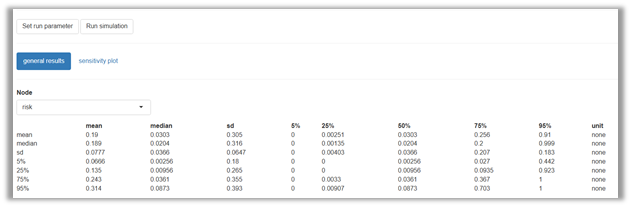
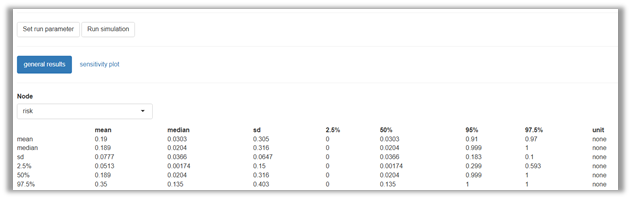
again

diff --git a/_site/index.html b/_site/index.html
@@ -1035,15 +1035,15 @@ Figure&nbsp;15: Schematic representation of the bootstrap method (Greiner, 2022,
 <p>A further limitation of non-parametric bootstrap is that distributions take a discrete shape for very small size of the original data sample. Sampling with replacement of <span class="math inline">\(n\)</span> observations can result in exactly <span class="math inline">\(2n-1\choose n-1\)</span> possible permutations of sampling <span class="math inline">\(n\)</span> out of <span class="math inline">\(n\)</span>. The table below shows that more than 5 observations are needed to obtain only 126 permutations can occur. If the original data set contains outlier values, the discreteness can present a further limitation.</p>
 <table class="caption-top table">
 <colgroup>
-<col style="width: 16%">
-<col style="width: 10%">
-<col style="width: 10%">
-<col style="width: 10%">
-<col style="width: 10%">
-<col style="width: 10%">
-<col style="width: 10%">
-<col style="width: 10%">
-<col style="width: 10%">
+<col style="width: 11%">
+<col style="width: 11%">
+<col style="width: 11%">
+<col style="width: 11%">
+<col style="width: 11%">
+<col style="width: 11%">
+<col style="width: 11%">
+<col style="width: 11%">
+<col style="width: 11%">
 </colgroup>
 <tbody>
 <tr class="odd">
@@ -1144,6 +1144,34 @@ Figure&nbsp;16: Uploading a distribution fitting file into the shiny rrisk sessi
 </section>
 <section id="sec-fixedpar" class="level2">
 <h2 class="anchored" data-anchor-id="sec-fixedpar">Fixed parameters and functions</h2>
+<p>Shiny rrisk allows users to develop their owns functions and parameters to be used in several nodes in the model. These features are considered advanced and requires some understanding of shiny mathematical architecture [@Robert – needs some input] as well as knowledge in R programming.</p>
+<p>A function is a predefined set of commands and mathematical calculations where a variable can be plugged into to generate the results. A common function in exposure models is for instance the use of microbial growth models where the variable temperature can be used for different conditions.</p>
+<div class="callout callout-style-default callout-note callout-titled">
+<div class="callout-header d-flex align-content-center" data-bs-toggle="collapse" data-bs-target=".callout-25-contents" aria-controls="callout-25" aria-expanded="false" aria-label="Toggle callout">
+<div class="callout-icon-container">
+<i class="callout-icon"></i>
+</div>
+<div class="callout-title-container flex-fill">
+Example: Function from Yersinia enterocolitica model
+</div>
+<div class="callout-btn-toggle d-inline-block border-0 py-1 ps-1 pe-0 float-end"><i class="callout-toggle"></i></div>
+</div>
+<div id="callout-25" class="callout-25-contents callout-collapse collapse">
+<div class="callout-body-container callout-body">
+<p>The function below is taken from the case model *Yersinia enterocolitica* in minced meat in shiny. The function below will allow bacteria to grow pending on different temperatures (C)</p>
+<p>Under Fixed Parameters and Functions in shiny rrisk, the user should select <strong>Add new parameter or function,</strong> and enter the text below in the window under Description.</p>
+<p>function(Temp)</p>
+<p>{</p>
+<p>&nbsp;&nbsp;&nbsp; a &lt;- 0.0242&nbsp; # 1/h; growth rate at Temp = 0°C</p>
+<p>&nbsp;&nbsp;&nbsp; Tref &lt;- 7.092&nbsp; # °C; if Temp = Tref, then growth_rate = a * exp(1)</p>
+<p>&nbsp;&nbsp;&nbsp; a * exp(Temp/Tref)</p>
+<p>}</p>
+<p>The function should start with the word “function”. Then the word in brackets after the word function represents variable to be used in the equations. This word will be used in different parts in the equations between the curling brackets. The function just needs a word there that will be replaced by the user defined variable in the model.</p>
+<p>The node below describes the use of the function in the Yersinia model</p>
+<p><img src="images/function.png" class="img-fluid" style="border: 2px solid black;  box-shadow: 4px 4px 12px rgba(0, 0, 0, 0.6);" width="500"></p>
+</div>
+</div>
+</div>
 </section>
 </section>
 <section id="running-a-simulation" class="level1">
@@ -1262,7 +1290,7 @@ Memory
 </div>
 </div>
 <div class="callout callout-style-default callout-tip callout-titled">
-<div class="callout-header d-flex align-content-center" data-bs-toggle="collapse" data-bs-target=".callout-27-contents" aria-controls="callout-27" aria-expanded="false" aria-label="Toggle callout">
+<div class="callout-header d-flex align-content-center" data-bs-toggle="collapse" data-bs-target=".callout-28-contents" aria-controls="callout-28" aria-expanded="false" aria-label="Toggle callout">
 <div class="callout-icon-container">
 <i class="callout-icon"></i>
 </div>
@@ -1271,7 +1299,7 @@ Good practice - Number of replicates
 </div>
 <div class="callout-btn-toggle d-inline-block border-0 py-1 ps-1 pe-0 float-end"><i class="callout-toggle"></i></div>
 </div>
-<div id="callout-27" class="callout-27-contents callout-collapse collapse">
+<div id="callout-28" class="callout-28-contents callout-collapse collapse">
 <div class="callout-body-container callout-body">
 <p>Since the number of nodes is part of the structure of the model, the amount of memory used will mainly depend of the number of random samples. Usually, the number of samples is selected based on standard “magic” numbers, like 100, 1000, 10000, etc. However, there are some approaches that can be followed as a guidance to estimate an approximate number. For this you need the probability of the event being modelled as outcome (which is typically low in risk and exposure assessments) and the minimum number of events you wish to model to obtain a statistically meaningful result.</p>
 <p>Let <span class="math inline">\(p\)</span> denote the (low) true risk and <span class="math inline">\(n\)</span> the minimum expected number of occurrences of the event you wish to model. You can approximate the required number of replicates <span class="math inline">\(N\)</span> using</p>
@@ -1282,7 +1310,7 @@ Good practice - Number of replicates
 </div>
 </div>
 <div class="callout callout-style-default callout-caution callout-titled">
-<div class="callout-header d-flex align-content-center" data-bs-toggle="collapse" data-bs-target=".callout-28-contents" aria-controls="callout-28" aria-expanded="false" aria-label="Toggle callout">
+<div class="callout-header d-flex align-content-center" data-bs-toggle="collapse" data-bs-target=".callout-29-contents" aria-controls="callout-29" aria-expanded="false" aria-label="Toggle callout">
 <div class="callout-icon-container">
 <i class="callout-icon"></i>
 </div>
@@ -1291,7 +1319,7 @@ Read more - Monte Carlo (MC) vs.&nbsp;latin hypercube (LH) sampling
 </div>
 <div class="callout-btn-toggle d-inline-block border-0 py-1 ps-1 pe-0 float-end"><i class="callout-toggle"></i></div>
 </div>
-<div id="callout-28" class="callout-28-contents callout-collapse collapse">
+<div id="callout-29" class="callout-29-contents callout-collapse collapse">
 <div class="callout-body-container callout-body">
 <p>Two sampling methods can be used in shiny rrisk. The Latin Hypercube (LH) method is more efficient and will provide same accuracy as the Monte Carlo (MC) method with fewer samples. In addition the LH will assure that samples are taken from the whole distribution, which is also better for rare events. The LH might reduce the number of samples required by a factor of 10 compared with the MC method. The LH is the default method in shiny rrisk.</p>
 <p>The LH method divides each random variable’s range into equal probability intervals (strata) according the number of samples required in the simulation and then take one sample from each interval per variable. Then the full coverage of each variable is sampled.</p>
@@ -1390,7 +1418,7 @@ Figure&nbsp;20: Numerical results for a one-dimensional (1D) simulation (<em>Yer
 <p><span class="citation" data-cites="Robert">@Robert</span> - how to interpret this one?</p>
 <p><img src="images/conv_ecoli_2D.png" class="img-fluid" style="border: 2px solid black;  box-shadow: 4px 4px 12px rgba(0, 0, 0, 0.6);" width="500"></p>
 <div class="callout callout-style-default callout-caution callout-titled">
-<div class="callout-header d-flex align-content-center" data-bs-toggle="collapse" data-bs-target=".callout-29-contents" aria-controls="callout-29" aria-expanded="false" aria-label="Toggle callout">
+<div class="callout-header d-flex align-content-center" data-bs-toggle="collapse" data-bs-target=".callout-30-contents" aria-controls="callout-30" aria-expanded="false" aria-label="Toggle callout">
 <div class="callout-icon-container">
 <i class="callout-icon"></i>
 </div>
@@ -1399,7 +1427,7 @@ Read more - 2D MC Models
 </div>
 <div class="callout-btn-toggle d-inline-block border-0 py-1 ps-1 pe-0 float-end"><i class="callout-toggle"></i></div>
 </div>
-<div id="callout-29" class="callout-29-contents callout-collapse collapse">
+<div id="callout-30" class="callout-30-contents callout-collapse collapse">
 <div class="callout-body-container callout-body">
 <p>The following figure depicts the outcome of a probabilistic model that reflects both variability and uncertainty (2D MC). <img src="images/clipboard-4283040366.png" class="img-fluid"></p>
 <p>The central tendency (median) of the risk estimate can be read from the intersection of the dark blue line with the red line parallel to the x-axis at a probability value in the y-axis of 0.5. The value is around 1e-11.</p>
@@ -1417,7 +1445,7 @@ Read more - 2D MC Models
 <p>Since this is a 2D model, the tornado plot also present the 95%. probability interval due to the uncertainty of the risk outcome.</p>
 <p><img src="images/tornado_pearson_ecoli.png" class="img-fluid" style="border: 2px solid black;  box-shadow: 4px 4px 12px rgba(0, 0, 0, 0.6);" width="500"></p>
 <div class="callout callout-style-default callout-caution callout-titled">
-<div class="callout-header d-flex align-content-center" data-bs-toggle="collapse" data-bs-target=".callout-30-contents" aria-controls="callout-30" aria-expanded="false" aria-label="Toggle callout">
+<div class="callout-header d-flex align-content-center" data-bs-toggle="collapse" data-bs-target=".callout-31-contents" aria-controls="callout-31" aria-expanded="false" aria-label="Toggle callout">
 <div class="callout-icon-container">
 <i class="callout-icon"></i>
 </div>
@@ -1426,7 +1454,7 @@ Read more: Tornado plots
 </div>
 <div class="callout-btn-toggle d-inline-block border-0 py-1 ps-1 pe-0 float-end"><i class="callout-toggle"></i></div>
 </div>
-<div id="callout-30" class="callout-30-contents callout-collapse collapse">
+<div id="callout-31" class="callout-31-contents callout-collapse collapse">
 <div class="callout-body-container callout-body">
 <p>Tornado plots are commonly used in risk and exposure assessments models to assess the quantify the impact of input variables on the outcome of the model. This relationship is quantified using parametric (eg. Pearson correlation coefficient) or non-parametric (eg. Spearman rank correlation coefficient - rho -) statistics.</p>
 <p>The graphs is created using all the input variables on the y-axis and the statistic on the x-axis, then the relationship is depicted using horizontal bars where the length of the bar represents the value of the statistic. This value is constraint by the boundaries of the statistic (eg. between -1 and 1). Where values below 0 represent an inverse relationship and values greater than 0, otherwise. For instance negative values suggest that higher values of the input are associates with lower values of the outcome variable.</p>
@@ -1492,7 +1520,7 @@ Figure&nbsp;21: Documentation of author names and a free text model description 
 </table>
 <p>There is no commonly accepted standard structure to provide additional information about the model. Below you will find a few good practice recommendations that you can combine in the free text field to meet your specific reporting needs. A simple markdown syntax can be used to structure the description into sections and subsections. Moreover, the markdown syntax can be used to obtain some standard text formatting.</p>
 <div class="callout callout-style-default callout-tip callout-titled">
-<div class="callout-header d-flex align-content-center" data-bs-toggle="collapse" data-bs-target=".callout-32-contents" aria-controls="callout-32" aria-expanded="false" aria-label="Toggle callout">
+<div class="callout-header d-flex align-content-center" data-bs-toggle="collapse" data-bs-target=".callout-33-contents" aria-controls="callout-33" aria-expanded="false" aria-label="Toggle callout">
 <div class="callout-icon-container">
 <i class="callout-icon"></i>
 </div>
@@ -1501,7 +1529,7 @@ Good practice: Generic structure of a
 </div>
 <div class="callout-btn-toggle d-inline-block border-0 py-1 ps-1 pe-0 float-end"><i class="callout-toggle"></i></div>
 </div>
-<div id="callout-32" class="callout-32-contents callout-collapse collapse">
+<div id="callout-33" class="callout-33-contents callout-collapse collapse">
 <div class="callout-body-container callout-body">
 <p>The user can enter the following information under <strong>Documentation and Reporting</strong></p>
 <ul>
@@ -1534,7 +1562,7 @@ Good practice: Generic structure of a
 </div>
 </div>
 <div class="callout callout-style-default callout-note callout-titled">
-<div class="callout-header d-flex align-content-center" data-bs-toggle="collapse" data-bs-target=".callout-33-contents" aria-controls="callout-33" aria-expanded="false" aria-label="Toggle callout">
+<div class="callout-header d-flex align-content-center" data-bs-toggle="collapse" data-bs-target=".callout-34-contents" aria-controls="callout-34" aria-expanded="false" aria-label="Toggle callout">
 <div class="callout-icon-container">
 <i class="callout-icon"></i>
 </div>
@@ -1543,7 +1571,7 @@ Markdown syntax
 </div>
 <div class="callout-btn-toggle d-inline-block border-0 py-1 ps-1 pe-0 float-end"><i class="callout-toggle"></i></div>
 </div>
-<div id="callout-33" class="callout-33-contents callout-collapse collapse">
+<div id="callout-34" class="callout-34-contents callout-collapse collapse">
 <div class="callout-body-container callout-body">
 <p>Markdown syntax is recommended to provide subheadings in free text fields. The Alizarin red S in Eel model provides an example of markdown in the description of the model and model parameters (e.g., bootstrapping). Markdown is also available in free text fields to generate formatted output in the report file. Some examples are given below (<a href="#fig-Markdown" class="quarto-xref">Figure&nbsp;22</a>).</p>
 <div id="fig-Markdown" class="quarto-figure quarto-figure-center quarto-float anchored">

diff --git a/_simulation.html b/_simulation.html
@@ -210,8 +210,24 @@ Good practice - Number of replicates
 </div>
 </div>
 </div>
-<div class="callout callout-style-default callout-caution callout-titled">
+<div class="callout callout-style-default callout-tip callout-titled">
 <div class="callout-header d-flex align-content-center" data-bs-toggle="collapse" data-bs-target=".callout-4-contents" aria-controls="callout-4" aria-expanded="false" aria-label="Toggle callout">
+<div class="callout-icon-container">
+<i class="callout-icon"></i>
+</div>
+<div class="callout-title-container flex-fill">
+Good practice - choice of percentiles for numerical results
+</div>
+<div class="callout-btn-toggle d-inline-block border-0 py-1 ps-1 pe-0 float-end"><i class="callout-toggle"></i></div>
+</div>
+<div id="callout-4" class="callout-4-contents callout-collapse collapse">
+<div class="callout-body-container callout-body">
+<p>The median and 95th percentile are usually reported to characterize the variability of the outcome in exposure or risk models. If a 2D simulation has been conducted to account for (parameter) uncertainty, the outcome statistics are usually reported with a 95% uncertainty interval, i.e.&nbsp;an interval ranging from the 2.5th to the 97.5th percentile of the uncertainty distribution.</p>
+</div>
+</div>
+</div>
+<div class="callout callout-style-default callout-caution callout-titled">
+<div class="callout-header d-flex align-content-center" data-bs-toggle="collapse" data-bs-target=".callout-5-contents" aria-controls="callout-5" aria-expanded="false" aria-label="Toggle callout">
 <div class="callout-icon-container">
 <i class="callout-icon"></i>
 </div>
@@ -220,7 +236,7 @@ Read more - Monte Carlo (MC) vs.&nbsp;latin hypercube (LH) sampling
 </div>
 <div class="callout-btn-toggle d-inline-block border-0 py-1 ps-1 pe-0 float-end"><i class="callout-toggle"></i></div>
 </div>
-<div id="callout-4" class="callout-4-contents callout-collapse collapse">
+<div id="callout-5" class="callout-5-contents callout-collapse collapse">
 <div class="callout-body-container callout-body">
 <p>Two sampling methods can be used in shiny rrisk. The Latin Hypercube (LH) method is more efficient and will provide same accuracy as the Monte Carlo (MC) method with fewer samples. In addition the LH will assure that samples are taken from the whole distribution, which is also better for rare events. The LH might reduce the number of samples required by a factor of 10 compared with the MC method. The LH is the default method in shiny rrisk.</p>
 <p>The LH method divides each random variable’s range into equal probability intervals (strata) according the number of samples required in the simulation and then take one sample from each interval per variable. Then the full coverage of each variable is sampled.</p>
@@ -275,10 +291,10 @@ Figure&nbsp;3: Scatter plot of two input quantities (80 sampling replicates).
 <p>After setting all the parameters, select <strong>Run Simulation.</strong> After the simulation is completed, shiny rrisk will present <strong>general results</strong> and <strong>sensitivity plot.</strong></p>
 <section id="general-results" class="level3">
 <h3 class="anchored" data-anchor-id="general-results">General results</h3>
-<p>Under <strong>general results</strong> you can access the numerical as well as the graphical results of your model. The end node (final outcome of your model) is shown by default. The results of any other node can be shown as well by selecting the <strong>Node</strong> from the drop down menu.</p>
+<p>Under <strong>general results</strong> you can access the numerical as well as the graphical results of your model. The end node (final outcome of your model) is shown by default. The results of any other node can be shown as well by selecting the <strong>Node</strong> from the drop-down menu.</p>
 <section id="one-dimensional-1d-simulation" class="level4">
 <h4 class="anchored" data-anchor-id="one-dimensional-1d-simulation">One-dimensional (1D) simulation</h4>
-<p>Shiny rrisk conducts a one-dimensional (1D) simulation, if none of the distribution nodes is defined to represent uncertainty. In this case, the numerical outcome consists of only one row of results, the <strong>mean</strong>, <strong>median</strong>, standard deviation (<strong>sd</strong>), a selection of <strong>percentiles</strong> (see Simulation settings) as well as the <strong>unit</strong>. This is shown using the <em>Yersinia enterocolitica</em> in minced meat model as example. The median and 95th percentile of the outcome (N_cg) is 0 and 89 colony forming units (CFU), respectively (<strong>?@fig-general_results_out_var</strong>).</p>
+<p>Shiny rrisk conducts a one-dimensional (1D) simulation, if none of the distribution nodes is defined to represent uncertainty. In this case, the numerical outcome consists of only one row of results, the <strong>mean</strong>, <strong>median</strong>, standard deviation (<strong>sd</strong>), a selection of <strong>percentiles</strong> (see Simulation settings) as well as the <strong>unit</strong>. This is shown using the <em>Yersinia enterocolitica</em> in minced meat model as example. The median and 95th percentile of the outcome (N_cg) is 0 and 89 colony forming units (CFU), respectively (<a href="#fig-general_results_out_1D" class="quarto-xref">Figure&nbsp;4</a>).</p>
 <div id="fig-general_results_out_1D" class="quarto-figure quarto-figure-center quarto-float anchored">
 <figure class="quarto-float quarto-float-fig figure">
 <div aria-describedby="fig-general_results_out_1D-caption-0ceaefa1-69ba-4598-a22c-09a6ac19f8ca">
@@ -292,18 +308,19 @@ Figure&nbsp;4: Numerical results for a one-dimensional (1D) simulation (<em>Yers
 </section>
 <section id="two-dimensional-2d-simulation" class="level4">
 <h4 class="anchored" data-anchor-id="two-dimensional-2d-simulation">Two-dimensional (2D) simulation</h4>
-<p>Shiny rrisk conducts a two-dimensional (2D) simulation, if at least one of the distribution nodes is defined to represent uncertainty. In this case, the numerical outcome consists of colums as defined for 1D models (see above) and rows for the <strong>mean</strong>, <strong>median</strong>, standard deviation (<strong>sd</strong>), a selection of <strong>percentiles</strong> that have been requested for the uncertainty dimension (see Simulation settings). This is shown using the <em>E. coli</em> in beef patties model as example. The median and 95th percentile of the outcome (N_cg) is 0 and 89 colony forming units (CFU), respectively (<strong>?@fig-general_results_out_2D</strong>).</p>
-<p><img src="images/general_results_out_2D.png" id="fig-general_results_out_2D" class="img-fluid" style="width:100.0%" alt="Numerical results for a two-dimensional (2D) simulation (E. coli in beef patties model)."> The output table will provide the summary statistics of each node according to the dimensions in variability and uncertainty. In addition, shiny rrisk will provide three plots in the natural scale or log10 transformed scale for summarizing the results.</p>
+<p>Shiny rrisk conducts a two-dimensional (2D) simulation, if at least one of the distribution nodes is defined to represent uncertainty. In this case, the numerical outcome consists of colums as defined for 1D models (see above) and rows for the <strong>mean</strong>, <strong>median</strong>, standard deviation (<strong>sd</strong>), a selection of <strong>percentiles</strong> for the uncertainty dimension (see Simulation settings). This is shown using the <em>E. coli</em> in beef patties model as example. The 95% uncertainty interval for median and 95th percentile for the outcome (risk) is 0.002-0.135 and 0.3-1.0, respectively (<a href="#fig-general_results_out_2D" class="quarto-xref">Figure&nbsp;5</a>).</p>
+<div id="fig-general_results_out_2D" class="quarto-figure quarto-figure-center quarto-float anchored">
+<figure class="quarto-float quarto-float-fig figure">
+<div aria-describedby="fig-general_results_out_2D-caption-0ceaefa1-69ba-4598-a22c-09a6ac19f8ca">
+<img src="images/general_results_out_2D.png" class="img-fluid figure-img" style="width:100.0%">
+</div>
+<figcaption class="quarto-float-caption-bottom quarto-float-caption quarto-float-fig" id="fig-general_results_out_2D-caption-0ceaefa1-69ba-4598-a22c-09a6ac19f8ca">
+Figure&nbsp;5: Numerical results for a two-dimensional (2D) simulation (<em>E. coli</em> in beef patties model).
+</figcaption>
+</figure>
+</div>
+<p>T### Graphical results</p>
 </section>
-<section id="two-dimensions-monte-carlo-models-2d-mc--variability-and-uncertainty" class="level4">
-<h4 class="anchored" data-anchor-id="two-dimensions-monte-carlo-models-2d-mc--variability-and-uncertainty">Two dimensions Monte Carlo Models (2D MC)- Variability and Uncertainty</h4>
-<p>The table below shows the results of the two dimension simulation for the E. coli in beef patties model after selecting 5000 and 500 random samples for the variability and uncertainty dimensions, respectively.</p>
-<p><img src="images/general_results_out.png" class="img-fluid" style="border: 2px solid black;  box-shadow: 4px 4px 12px rgba(0, 0, 0, 0.6);"></p>
-<p>For 2D models, the summary statistics are presented in a matrix format, where rows represent uncertainty and the columns, the variability of the node.</p>
-</section>
-</section>
-<section id="graphical-results" class="level3">
-<h3 class="anchored" data-anchor-id="graphical-results">Graphical results</h3>
 <section id="histogram" class="level4">
 <h4 class="anchored" data-anchor-id="histogram">Histogram</h4>
 <p>This plot depicts the density distribution of the random values for a given node.</p>
@@ -319,7 +336,7 @@ Figure&nbsp;4: Numerical results for a one-dimensional (1D) simulation (<em>Yers
 <p><span class="citation" data-cites="Robert">@Robert</span> - how to interpret this one?</p>
 <p><img src="images/conv_ecoli_2D.png" class="img-fluid" style="border: 2px solid black;  box-shadow: 4px 4px 12px rgba(0, 0, 0, 0.6);" width="500"></p>
 <div class="callout callout-style-default callout-caution callout-titled">
-<div class="callout-header d-flex align-content-center" data-bs-toggle="collapse" data-bs-target=".callout-5-contents" aria-controls="callout-5" aria-expanded="false" aria-label="Toggle callout">
+<div class="callout-header d-flex align-content-center" data-bs-toggle="collapse" data-bs-target=".callout-6-contents" aria-controls="callout-6" aria-expanded="false" aria-label="Toggle callout">
 <div class="callout-icon-container">
 <i class="callout-icon"></i>
 </div>
@@ -328,7 +345,7 @@ Read more - 2D MC Models
 </div>
 <div class="callout-btn-toggle d-inline-block border-0 py-1 ps-1 pe-0 float-end"><i class="callout-toggle"></i></div>
 </div>
-<div id="callout-5" class="callout-5-contents callout-collapse collapse">
+<div id="callout-6" class="callout-6-contents callout-collapse collapse">
 <div class="callout-body-container callout-body">
 <p>The following figure depicts the outcome of a probabilistic model that reflects both variability and uncertainty (2D MC). <img src="images/clipboard-4283040366.png" class="img-fluid"></p>
 <p>The central tendency (median) of the risk estimate can be read from the intersection of the dark blue line with the red line parallel to the x-axis at a probability value in the y-axis of 0.5. The value is around 1e-11.</p>
@@ -346,7 +363,7 @@ Read more - 2D MC Models
 <p>Since this is a 2D model, the tornado plot also present the 95%. probability interval due to the uncertainty of the risk outcome.</p>
 <p><img src="images/tornado_pearson_ecoli.png" class="img-fluid" style="border: 2px solid black;  box-shadow: 4px 4px 12px rgba(0, 0, 0, 0.6);" width="500"></p>
 <div class="callout callout-style-default callout-caution callout-titled">
-<div class="callout-header d-flex align-content-center" data-bs-toggle="collapse" data-bs-target=".callout-6-contents" aria-controls="callout-6" aria-expanded="false" aria-label="Toggle callout">
+<div class="callout-header d-flex align-content-center" data-bs-toggle="collapse" data-bs-target=".callout-7-contents" aria-controls="callout-7" aria-expanded="false" aria-label="Toggle callout">
 <div class="callout-icon-container">
 <i class="callout-icon"></i>
 </div>
@@ -355,7 +372,7 @@ Read more: Tornado plots
 </div>
 <div class="callout-btn-toggle d-inline-block border-0 py-1 ps-1 pe-0 float-end"><i class="callout-toggle"></i></div>
 </div>
-<div id="callout-6" class="callout-6-contents callout-collapse collapse">
+<div id="callout-7" class="callout-7-contents callout-collapse collapse">
 <div class="callout-body-container callout-body">
 <p>Tornado plots are commonly used in risk and exposure assessments models to assess the quantify the impact of input variables on the outcome of the model. This relationship is quantified using parametric (eg. Pearson correlation coefficient) or non-parametric (eg. Spearman rank correlation coefficient - rho -) statistics.</p>
 <p>The graphs is created using all the input variables on the y-axis and the statistic on the x-axis, then the relationship is depicted using horizontal bars where the length of the bar represents the value of the statistic. This value is constraint by the boundaries of the statistic (eg. between -1 and 1). Where values below 0 represent an inverse relationship and values greater than 0, otherwise. For instance negative values suggest that higher values of the input are associates with lower values of the outcome variable.</p>
